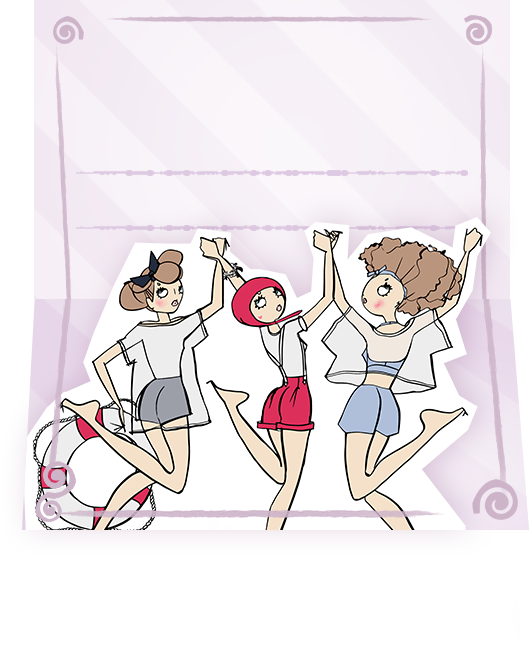
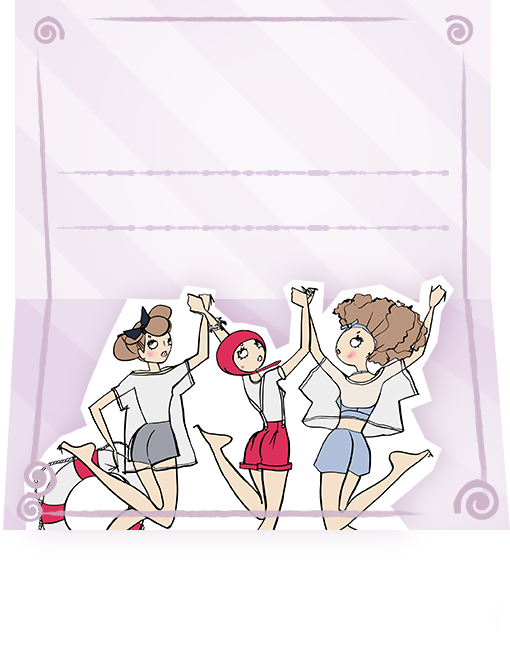
weixin page change(card img change, input mobile delete)

diff --git a/static/js/app.js b/static/js/app.js
@@ -583,54 +583,13 @@ $(".page3_drawBtn").click(function(e){
 }); 
 
 //抽取红包（微信页）
-$(".page8_draw").click(function(){
-    phone = $("#input_mobile2").val();
-    var phoneRex =  /^(13[0-9]{9})|(14[0-9]{9})|(15[0-9]{9})|(18[0-9]{9})|(17[0-9]{9})$/;
-    // phone = 13800138000;
-    if (phone=="" || phoneRex.test(phone)==false || phone.length>11){
-        $(".wrongNumber").removeClass("f-dn");
-        $(".wrongNumber_btn").removeClass("f-dn");
-        //跳出确认手机号方法
-        return;
-    }
-    else if(!clicked){
-        clicked = 1;
-        $.ajax({
-           url: '/lottery',
-           type: 'post',
-           dataType: 'json',
-           data: { 
-               mobile: phone,
-               openid: openid,
-               shareid: originShareId,
-               sharedby:sharedBy
-           }, 
-           success: function(data){
-                clicked = 0;
-                console.dir(data);     
-                if(data.success) 
-                {
-                    console.log("value: "+data.data.value + "code: "+data.data.code);
-                    lotteryValue = 25;
+$(".page8_draw").click(function(){ 
+    lotteryValue = 25;
                     
-                    $(".m-screen8").addClass("animated fadeOutUp1");                
-                    $('.m-screen2').removeClass("f-dn");
-                    $(".m-screen2").addClass("animated fadeInUp1 f-ad1" );            
-                    $(".m-screen2").find(".animated").removeClass("f-ann")
-                }
-                else{
-                    $(".usedNumber").removeClass("f-dn");
-                    $(".usedNumber_btn").removeClass("f-dn");
-                    $(".continuePlay_btn").removeClass("f-dn");
-                }
-            },
-            error:function(data){
-                clicked = 0;
-            }
-        });  
-
-    }  
-  
+    $(".m-screen8").addClass("animated fadeOut f-ad1");                
+    $('.m-screen2').removeClass("f-dn");
+    $(".m-screen2").addClass("fadeInScale f-ad5" );            
+    $(".m-screen2").find(".animated").removeClass("f-ann");  
 });
 
 //红包页
@@ -860,20 +819,7 @@ $(".m-screen3").find(".page3_phoneNumber").on('blur', 'input', function(){
     } 
 });
 
-$(".m-screen8").find(".page8_input").on('blur', 'input', function(){
-    if($(this).attr('id') === 'input_mobile2' ){
-        if($.trim($(this).val()) === ''){
-            $(this).val('请输入手机号');
 
-        }
-    }
-}).on('focus', 'input', function(){
-    if($(this).attr('id') === 'input_mobile2' ){
-        if($.trim($(this).val()) === '请输入手机号'){
-            $(this).val('');
-        }
-    } 
-});
 
 
 //显示waiting

diff --git a/static/css/iphone4.css b/static/css/iphone4.css
@@ -345,46 +345,6 @@ body .loading_dot3{
 
 
 
-.page8_card1{
-    position: absolute;
-    left: 5.5%;
-    width: 89.1%; /*570/640*/
-    top: 5%;
-    z-index: 2;
-}
-
-.page8_card2{
-    position: absolute;
-    left: 8.7%;
-    width: 82.6%;/*529/640*/
-    top: 5%;
-    z-index: 2;
-}
-
-.page8_card3{
-    position: absolute;
-    left: 10.4%;
-    width: 79.2%; /*507/640*/
-    top: 5%;
-    z-index: 2;
-}
-
-.page8_from{
-    position: absolute;
-    top: 30%;
-    left: 48%;
-    width: 31.41%; /*201px*/
-    z-index: 3;
-}
-
-.page8_to{
-    position: absolute;
-    top: 14%;
-    left: 16%;
-    width: 26.25%; /*168px*/
-    z-index: 3;
-}
-
 .page8_line1{
     position: absolute;
     top: 17%;
@@ -410,7 +370,7 @@ body .loading_dot3{
     position: absolute;
     top: 23%;
     width: 64%;
-    height: 5%;
+    height: 8%;
     left: 17%;
     border: 0;
     background-color: transparent;
@@ -433,20 +393,6 @@ body .loading_dot3{
     z-index: 10001;
 }
 
-.page8_txt{
-    position: absolute;
-    left: 24.8%;
-    width: 50.31%;/*322/640*/
-    top: 62%;
-}
-
-.page8_gesture{
-    position: absolute;
-    width: 7%; /*67/640*/
-    top: 64%;
-    left: 45%;
-    z-index: 10011;
-}
 .page8_info{
     position: absolute;
     left: 75%;

diff --git a/static/home.html b/static/home.html
@@ -311,13 +311,6 @@
                 <div class="page8_gesture animated pulse2 f-ad2 f-anii">
                       <img src="images/page5_gesture.png" width="100%" alt="">
                 </div>
-                             
-                 <div class=page8_input>
-                      <input type="text"  id="input_mobile2" value="请输入手机号">
-                      <img src="images/page8_inputBg.png"  width="100%"alt="">
-                 </div>                       
-                
-
             </div>                                                            
         </div>
 

diff --git a/static/css/style.css b/static/css/style.css
@@ -769,7 +769,7 @@ body .percent_symbol{
     position: absolute;
     left: 19.6%;
     width: 60.8%;/*389/640*/
-    top: 86%;
+    top: 77%;
     z-index: 10000;
 }
 
@@ -790,15 +790,15 @@ body .percent_symbol{
 
 .page8_card1{
     position: absolute;
-    left: 5.5%;
-    width: 89.1%; /*570/640*/
+    left: 9.5%;
+    width: 80%; /*512/640*/
     top: 12.5%;
 }
 
 .page8_card2{
     position: absolute;
-    left: 8.7%;
-    width: 82.6%;/*529/640*/
+    left: 9.5%;
+    width: 79.69%;/*510/640*/
     top: 12.5%;
 }
 
